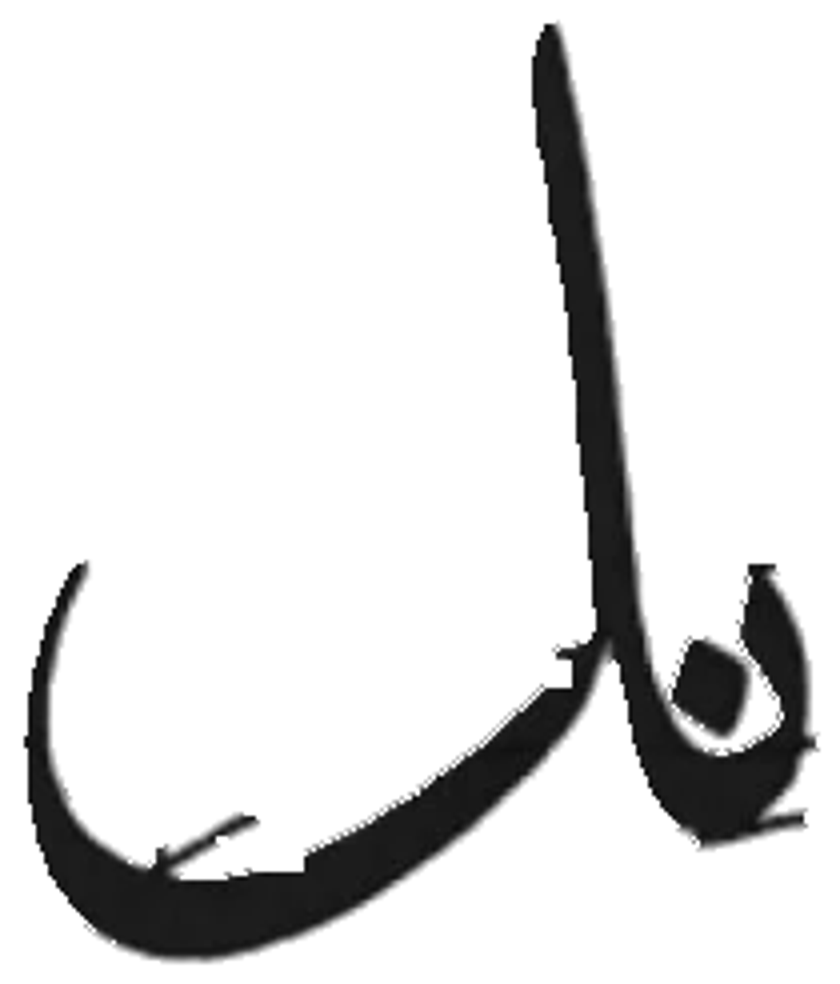
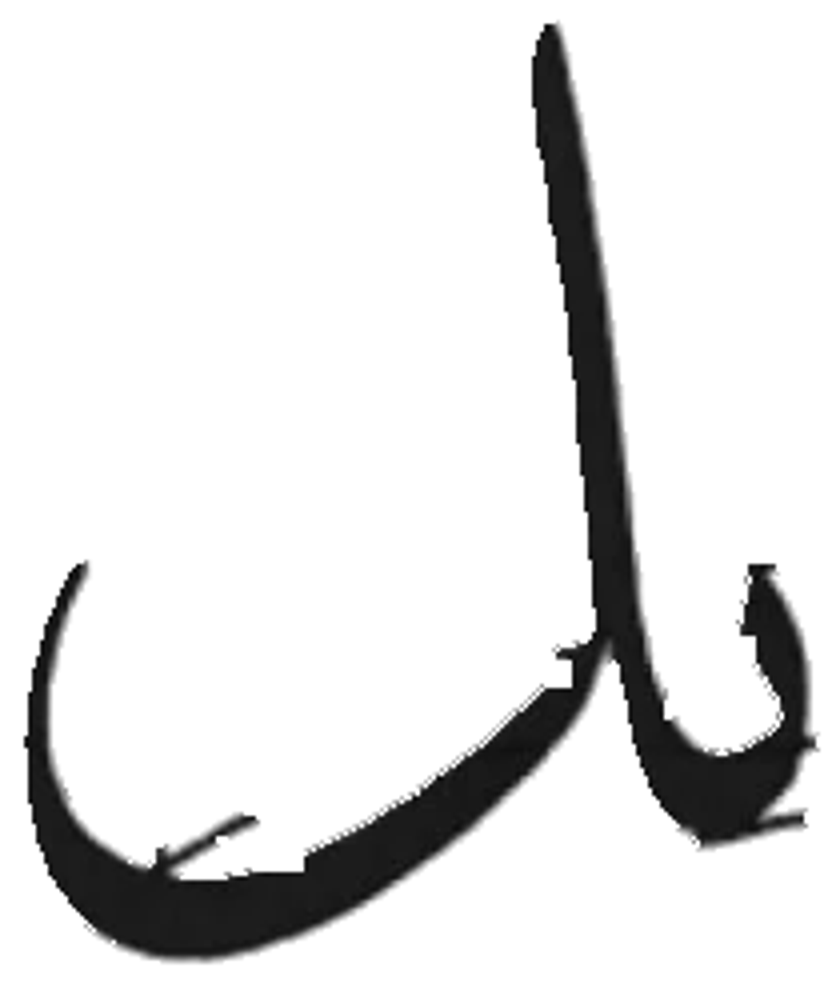
Erase the measuring dot inside 15 · 10's curl
Claude-Session: https://claude.ai/code/session_01XKSn9LffW5ruEBSXbs53N4

Changed region(s): [[0.7738, 0.6402, 0.8976, 0.7622]]

diff --git a/scripts/marks/thuluth/review.py b/scripts/marks/thuluth/review.py
@@ -466,7 +466,8 @@ DRAFT_ERASE = {
   "t15r2": {**{n: [("lines", 4), "main"] for n in (3, 4)},
             10: [("lines", 4), (345, 240, 356, 251), (338, 293, 375, 300), (191, 178, 199, 218), "main"], 5: [("lines", 4), "main", ("add", 1229, 200)],
             # measuring nuqtas sitting on the strokes, and ruled-line remnants
-            7: [("lines", 4), (1080, 278, 1112, 294), (933, 286, 955, 295), (1014, 242, 1022, 249), "main"],
+            7: [("lines", 4), (1080, 278, 1112, 294), (933, 286, 955, 295), (1014, 242, 1022, 249),
+                ("poly", [(1049, 236), (1067, 236), (1067, 259), (1062, 262), (1055, 261), (1050, 257), (1048, 249)]), (1045, 249, 1049, 257), "main"],   # the measuring dot in the curl (the user)
             8: [("lines", 4), (746, 160, 783, 188), (786, 185, 802, 212), (660, 243, 684, 262), ("thin", 695, 276, 825, 290, 6), "main"],
             9: [("lines", 4), (403, 174, 458, 180), (416, 179, 436, 201), (415, 201, 436, 226), ("thin", 418, 196, 452, 203, 5),
                 ("thin", 480, 280, 525, 290, 5), "main"]},

diff --git a/scripts/marks/thuluth/REVIEW.md b/scripts/marks/thuluth/REVIEW.md
@@ -1541,8 +1541,8 @@ Judgment calls for the user to confirm rather than re-review:
   2026-10-17): it repeats clean forms found elsewhere.
 - t13 16 (row 4 · 3) is two words, فبو and a waw, kept as one piece like
   the earlier approved two-word pieces.
-- t15 10 (row 2 · 7): a small dot inside the curl was left; it may be the
-  letter's own dot.
+- t15 10 (row 2 · 7): the dot inside the curl is a measuring mark (the
+  user, 2026-10-17); erased.
 - t16 8 (row 1 · 9): the dark square on top of the medial meem was kept as
   the pen's start, not a nuqta.
 - t17 18 (row 6 · 4), a construction drawing: **skipped** (the user,
